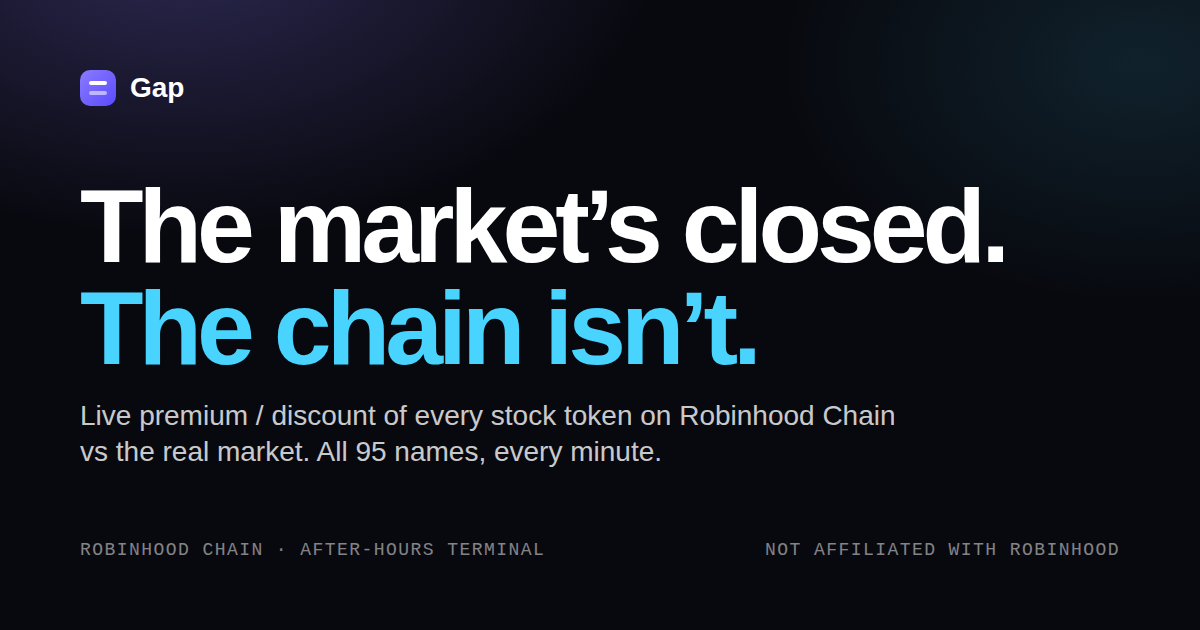
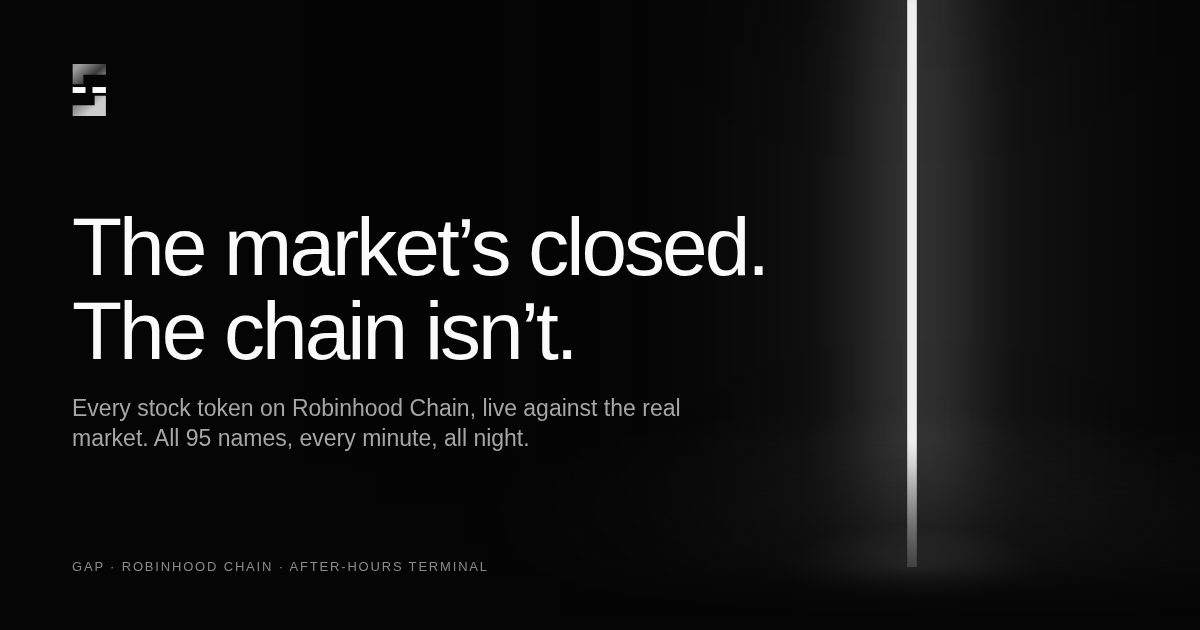
Add files via upload

diff --git a/index.html b/index.html
@@ -7,7 +7,11 @@
 <meta name="description" content="Live premium / discount of every stock token on Robinhood Chain vs the real market. All 95 names, every minute, all night.">
 <meta property="og:title" content="Gap — the market’s closed. The chain isn’t.">
 <meta property="og:description" content="Live premium / discount of every stock token on Robinhood Chain vs the real market.">
-<meta property="og:image" content="og.png">
+<meta property="og:url" content="https://gap-bay.vercel.app/">
+<meta property="og:image" content="https://gap-bay.vercel.app/og.png">
+<meta property="og:image:width" content="1200">
+<meta property="og:image:height" content="630">
+<meta name="twitter:image" content="https://gap-bay.vercel.app/og.png">
 <meta name="twitter:card" content="summary_large_image">
 <meta name="theme-color" content="#050505">
 <link rel="icon" type="image/png" href="favicon.png">

diff --git a/README.md b/README.md
@@ -1,18 +1,27 @@
-<p align="center"><img src="favicon.png" width="88" alt="Gap"></p>
+<p align="center"><img src="logo.png" width="104" alt="Gap"></p>
 <h1 align="center">Gap</h1>
-<p align="center"><b>The market’s closed. The chain isn’t.</b><br>Live premium / discount of every stock token on Robinhood Chain vs the real market.</p>
+<p align="center"><b>The market’s closed. The chain isn’t.</b><br>Live premium / discount of every stock token on Robinhood Chain against the real market.</p>
+<p align="center"><a href="https://gap-bay.vercel.app">gap-bay.vercel.app</a></p>
+
+<p align="center"><img src="og.png" width="720" alt="Gap — the market’s closed. The chain isn’t."></p>
 
 ---
 
 ## What it is
 
-Robinhood Chain stock tokens trade 24/7 in Uniswap v4 pools against USDG. NYSE trades 9:30–16:00 New York, five days a week. Whenever the market is shut, the on-chain price is the only price that can move — so it drifts away from the last real one. That drift is the **gap**.
+Robinhood Chain stock tokens trade 24/7 in Uniswap v4 pools. NYSE trades 9:30–16:00 New York, five days a week. Whenever the market is shut, the on-chain price is the only price that can move, so it drifts away from the last real one. That drift is the **gap**.
 
-Gap is the live table of it: all 95 stock tokens, on-chain price vs market price, gap %, 24h on-chain move, volume, liquidity, buy/sell flow, straight to the pool. Plus a NYSE countdown, a watchlist, browser alerts when a gap opens past your threshold, and a ticker tape.
+Gap is the live table of it — all 95 names, on-chain price against market price, the gap, 24h on-chain move, volume, liquidity, buy/sell flow, and a link straight to the pool. Plus a NYSE countdown, a watchlist, browser alerts when a gap opens past your threshold, and a ticker tape.
 
-$GAP is the key. Hold the gate amount and the full terminal opens. No staking, no contract — the balance is read from the chain when a wallet connects.
+## The site
 
-## Connect a wallet and you get
+Two views, one file.
+
+**Landing** — a fixed, full-screen stage: the mark, the nav, one headline, a looping video, the four data partners in the bottom fade. Nothing scrolls.
+
+**Terminal** — "Open terminal" crossfades into it. Stats up top, then the table, alerts, and how it works. Driven by the hash, so `/#terminal`, `/#alerts`, `/#how` and `/#gap` deep-link into it and the back button returns to the landing.
+
+### Connect a wallet and you get
 
 - **Your positions** — every stock token in the wallet, valued on-chain (raw balance × pool price) and at the market (split-adjusted balance × real price), with the gap and the dollar difference per name and in total. Plus a **Yours** filter on the main table.
 - **A watchlist that follows the wallet** — stars are saved per address. With the store below configured, one signature saves them to the cloud so they're there on your phone too; without it they're saved per address on the device.
@@ -20,29 +29,25 @@ $GAP is the key. Hold the gate amount and the full terminal opens. No staking, n
 
 Nothing is ever signed except the optional watchlist save, and that is a plain-text message, not a transaction.
 
-## How it works
+## How the data works
 
 ```
 browser ──► /api/gap  (Vercel serverless, cached 45s)
-               ├── GeckoTerminal  → on-chain price, volume, liquidity, buys/sells per stock-token pool (no key)
+               ├── GeckoTerminal  → on-chain price, volume, liquidity, buys/sells, logo — per stock-token pool (no key)
                └── Finnhub (if FINNHUB_KEY) or Yahoo chart endpoint → last real market price, previous close
+
+browser ──► /api/watch (optional) → per-wallet watchlist on Upstash Redis, signature-checked
 ```
 
-The function merges both sides, computes `gap = onchain / market − 1`, and returns one JSON. It refreshes market quotes in slices so it never trips the free rate limits, and barely refreshes them at all while the market is closed (closes don't move).
-
-If the API is unreachable the page falls back to reading GeckoTerminal directly (on-chain side only), and if that fails too it shows clearly-labelled sample data.
+The function merges both sides, computes `gap = onchain / market − 1`, and returns one JSON. It refreshes market quotes in slices so it never trips the free rate limits, and barely refreshes them while the market is closed (closes don't move). If the API is unreachable the page reads GeckoTerminal directly (on-chain side only), and if that fails too it shows clearly-labelled sample data.
 
 ## Deploy
 
-1. Push this repo to GitHub.
-2. Vercel → Add New → Project → import. Framework **Other**, no build command, no root directory. The `api/` folder is picked up automatically.
-3. (Recommended) Project → Settings → Environment Variables → `FINNHUB_KEY` = a free key from finnhub.io. Without it the function uses Yahoo's public chart endpoint, which works but is unofficial.
-3b. (Optional, for cloud watchlists) Project → Storage → Create → **Upstash Redis** (free tier). It adds `KV_REST_API_URL` and `KV_REST_API_TOKEN` to the project automatically. Skip it and watchlists stay per wallet per device.
-4. Deploy. Open `/api/gap` on your domain — you should see JSON with 95 rows.
-
-## The video
-
-The hero plays a looping MP4 from the `video` line in the config. Swap the URL for your own (a dark 16:9 clip, ~1500×1050, loops cleanly). If it fails to load the page draws a simple light-column scene instead, so nothing breaks.
+1. Push this repo to GitHub — `api/` must be a folder at the root, next to `index.html`.
+2. Vercel → Add New → Project → import. Framework **Other**, no build command, no root directory.
+3. Project → Settings → Environment Variables → `FINNHUB_KEY` = a free key from finnhub.io (recommended; without it the function uses Yahoo's public endpoint).
+4. Optional, for cloud watchlists: Project → Storage → Create → **Upstash Redis** (free tier). It adds `KV_REST_API_URL` / `KV_REST_API_TOKEN` automatically.
+5. Deploy, then open `/api/gap` on your domain — you should see JSON with 95 rows.
 
 ## Launch day
 
@@ -52,6 +57,7 @@ Top of `index.html`:
 window.GAP_CONFIG = {
   token:   '0x…',          // $GAP contract address from Pons → buy button goes live, gating switches on
   gateAmount: 250000,      // $GAP needed to unlock the full table + alerts. 0 = everything open
+  video:   'https://…mp4', // the hero loop; swap for your own clip
   x:       'https://x.com/…',
   github:  'https://github.com/…',
   walletConnectProjectId: '…'   // from cloud.reown.com; add your Vercel domain to its allowlist
@@ -67,12 +73,13 @@ Pons creator fees pay for the data feeds and a weekly bounty — the widest gap 
 ## Files
 
 ```
-index.html       the site: cinematic stage (looping video, Manrope) + the terminal (single file, no build)
+index.html       the site: landing stage + terminal (single file, no build)
 api/gap.js       serverless function: GeckoTerminal + market quotes → one JSON
 api/watch.js     per-wallet watchlist (signature-checked) on Upstash Redis — optional
 api/tokens.json  the 95 stock tokens on Robinhood Chain with names
-vercel.json      function config + CORS on /api
-favicon.png · og.png
+package.json     ethers (for the signature check) — Vercel installs it
+vercel.json      clean URLs + CORS on /api
+favicon.png · logo.png · og.png
 ```
 
 ## Honest bits
